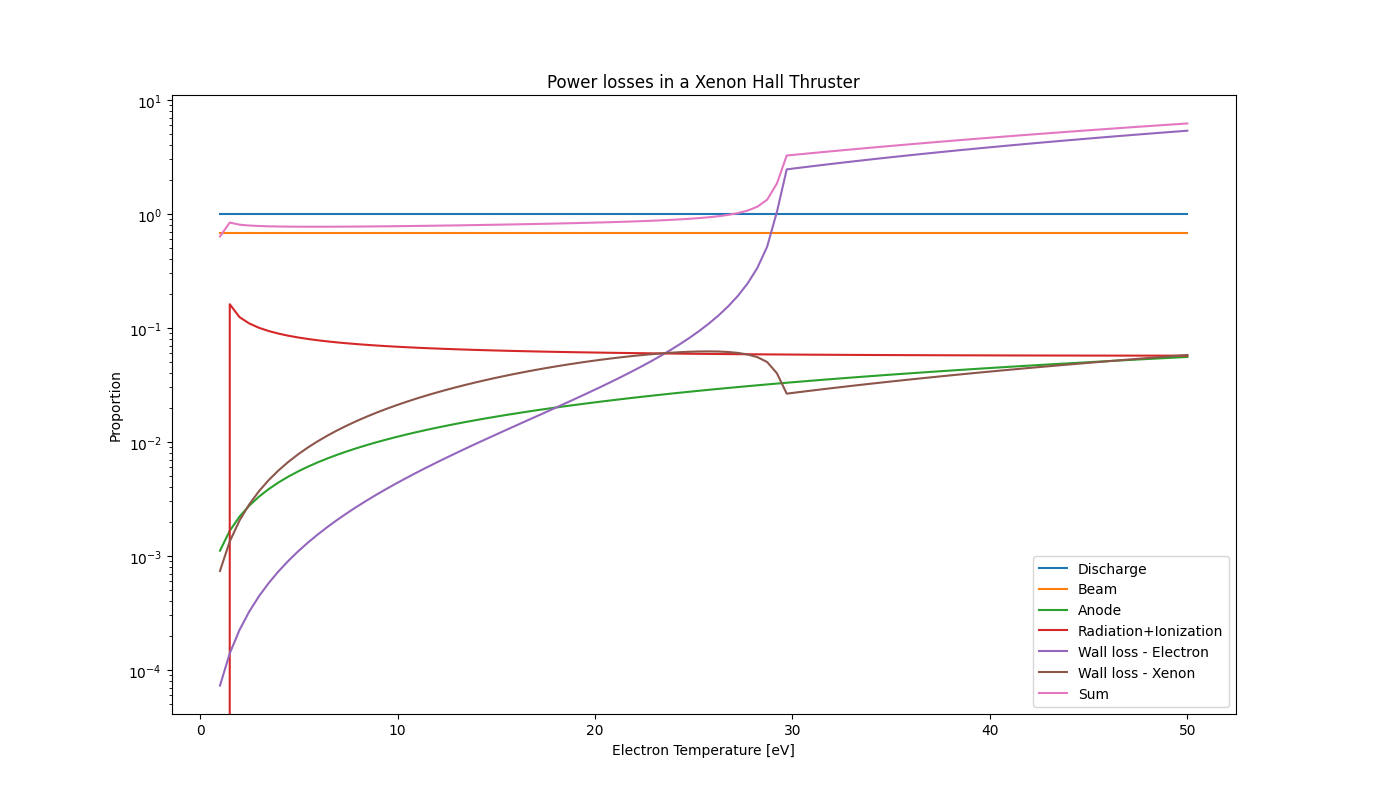
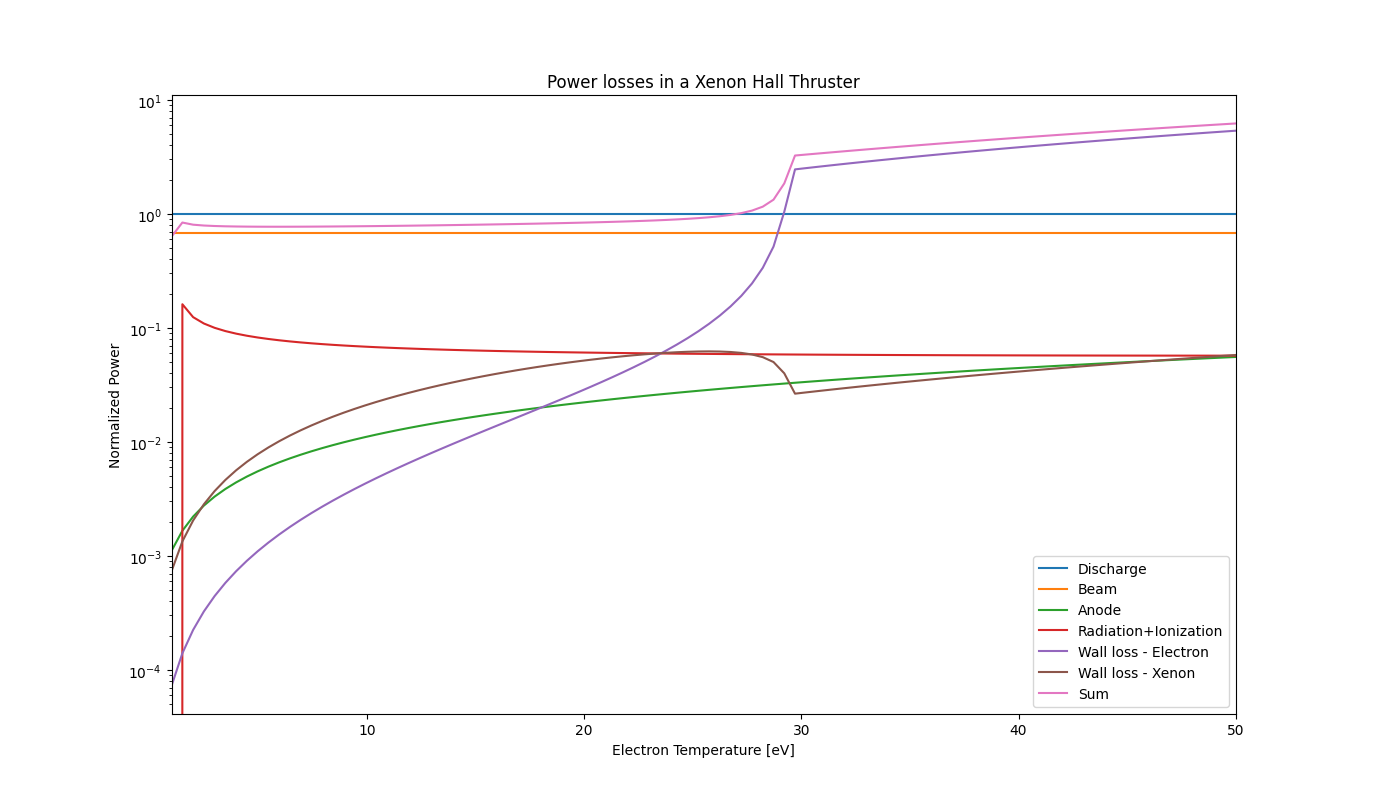
Minor visual update to problem2c.png

diff --git a/hw3/hw3_main.py b/hw3/hw3_main.py
@@ -110,8 +110,9 @@ plt.semilogy(Te,Pwi_norm,label='Wall loss - Xenon')
 plt.semilogy(Te,Pb_norm+Pa_norm+PrPion_norm+Pwi_norm+Pwe_norm,label='Sum')
 plt.legend()
 plt.xlabel('Electron Temperature [eV]')
-plt.ylabel('Proportion')
+plt.ylabel('Normalized Power')
 plt.title('Power losses in a Xenon Hall Thruster')
+plt.xlim((Te[0],Te[Te.shape[0]-1]))
 
 """ Problem 3 """
 
